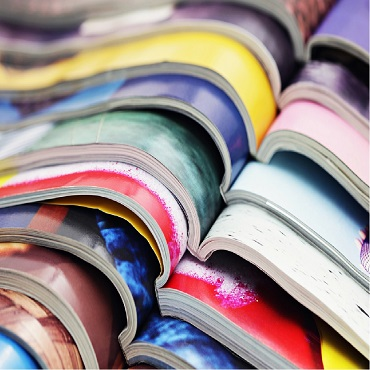
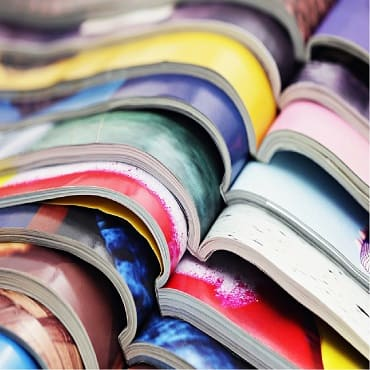
imges, seo et méta

diff --git a/LaChouetteAgence/index.html b/LaChouetteAgence/index.html
@@ -1,10 +1,11 @@
 <!doctype html>
-<html lang="Default">
+<html lang="fr">
 <head>
     <meta charset="utf-8">
-    <meta name="keywords" content="seo, google, site web, site internet, agence design paris, agence design, agence design,agence design,agence design,agence design,agence design,agence design,agence design,agence design">
-    <meta name="description" content="">
-    <meta name="viewport" content="width=device-width, initial-scale=1.0, viewport-fit=cover">
+    <meta name="keywords" content="La chouette agence, agence web design, entreprise webdesign lyon, création site web, site internet, stratégie web">
+    <meta name="description" content="La chouette agence est une agence de web design qui aide les entreprises à devenir attractives et visibles sur Internet.">
+	<meta name="viewport" content="width=device-width, initial-scale=1.0, viewport-fit=cover">
+	<meta name="robots" content="index, follow">
     <link rel="shortcut icon" type="image/png" href="favicon.jpg">
     
 	<link rel="stylesheet" type="text/css" href="./css/bootstrap.css">
@@ -19,7 +20,7 @@
 	<script src="./js/jquery.touchSwipe.js" defer></script>
 	<script src="./js/gmaps.js"></script>
 
-    <title>.</title>
+    <title>La chouette agence, entreprise de web design à Lyon</title>
 
     
 <!-- Analytics -->
@@ -37,9 +38,7 @@
 
 		<nav class="navbar row">
 			<div class="navbar-header">
-				<div class="keywords" style="color:#cccccc;font-size:1px;">Agence web à paris, stratégie web, web design, illustrations, design de site web, site web, web, internet, site internet, site</div>
-				<a class="navbar-brand" href="index.html"><img src="img/la-chouette-agence.png" alt="paris web design logo agence web meilleure agence" height="40" /></a>
-				<div class="keywords" style="color:#cccccc;font-size:1px;">Agence web à paris, stratégie web, web design, illustrations, design de site web, site web, web, internet, site internet, site</div>
+				<a class="navbar-brand" href="index.html"><img src="img/la-chouette-agence.png" alt="Logo de La chouette agence : une chouette stylisée." height="40" /></a>
 				<button id="nav-toggle" type="button" class="ui-navbar-toggle navbar-toggle" data-toggle="collapse" data-target=".navbar-1">
 					<span class="sr-only">Toggle navigation</span><span class="icon-bar"></span><span class="icon-bar"></span><span class="icon-bar"></span>
 				</button>
@@ -50,9 +49,7 @@
 						<a href="index.html">Accueil</a>
 					</li>
 					<li>
-					</li>
-					<li>
-						<a href="page2.html">page2 &gt;</a>
+						<a href="page2.html">Contactez-nous !</a>
 					</li>
 				</ul>
 			</div>
@@ -66,9 +63,10 @@
 	<div class="container bloc-lg">
 		<div class="row tight-width-whitespace">
 			<div class="col-sm-12">
-				<img src="img/logo.png" class="center-block image-resize-mode" width="100" alt="La chouette agence, agence web paris, création logo paris" />
+				<img src="img/logo.png" class="center-block image-resize-mode" width="100" alt="Logo de La chouette agence : une chouette stylisée." />
 				<h1 class="text-center hero-bloc-text tc-white ">
-					La chouette agence.
+					La chouette agence.</br>
+					Agence de webdesign - Lyon
 				</h1>
 				<div class="text-center">
 					<a href="page2.html" class="btn btn-lg btn-clean btn-rd cta-hero btn-atomic-tangerine" id="cta-hero">Contact</a>
@@ -83,9 +81,9 @@
 <div class="bloc bgc-white l-bloc" id="bloc-2-services">
 	<div class="container bloc-md">
 		<div class="row">
-			<div class="col-sm-12 text-center">
-				<img alt="agence web, agence web paris, web design paris, stratégie web" src="img/title.png" />
-			</div>
+			<h2 class="col-sm-12 text-center">
+				La chouette agence est une agence de web design qui aide les entreprises à devenir attractives et visibles sur Internet.
+			</h2>
 		</div>
 		<div class="row voffset-lg med-width-whitespace">
 			<div class="col-sm-4">
@@ -124,8 +122,8 @@
 		</div>
 		<div class="row voffset-lg voffset">
 			<div class="col-xs-12 col-md-8 col-md-offset-2 text-center">
-				<img alt="agence web, agence web paris, web design paris, stratégie web" src="img/citation.png" />
-
+				<p>"La chouette agence est un excellente agence web ! Les web designers ont réussi à capturer l'essence de notre entreprise et à l'intégrer à notre site. Cela nous a aidé à doubler nos ventes en ligne à Lyon."</p>
+				<p>Maxime Guibard, PDG de A vos fourchettes</p>
 			</div>
 		</div>
 	</div>
@@ -153,13 +151,13 @@
 <div class="bloc bgc-white bg-lines-h2-bg bg-repeat l-bloc" id="bloc-4-portfolio">
 	<div class="container bloc-lg">
 		<div class="row">
-			<div class="col-sm-12 text-center">
-				<img alt="agence web, agence web paris, web design paris, stratégie web" src="img/title2.png" />
-			</div>
+			<h2 class="col-sm-12 text-center">
+				Nous travaillons avec beaucoup de clients, voici nos réalisations.
+			</h2>
 		</div>
 		<div class="row tight-width-whitespace portfolio-row">
 			<div class="col-sm-6">
-				<a href="#" data-lightbox="img/1.jpg" data-gallery-id="gallery-1" data-caption="Refonte d'un site web pour un journal local" data-frame="snapshot-lb"><img src="img/1.jpg" alt="paris web design logo agence web meilleure agence et refonte site web journal" class="img-responsive portfolio-thumb" /></a>
+				<a href="#" data-lightbox="img/1.jpg" data-gallery-id="gallery-1" data-caption="Refonte d'un site web pour un journal local" data-frame="snapshot-lb"><img src="img/1.jpg" alt="Un empilement de magazines colorés et ouverts" class="img-responsive portfolio-thumb" /></a>
 				<h3 class="mg-md text-center">
 					Refonte d'un site web pour un journal local
 				</h3>
@@ -168,7 +166,7 @@
 				</p>
 			</div>
 			<div class="col-sm-6">
-				<a href="#" data-lightbox="img/2.jpg" data-gallery-id="gallery-1" data-caption="Création d'un site web pour photographes" data-frame="snapshot-lb"><img src="img/2.jpg" class="img-responsive portfolio-thumb" alt="paris web design logo agence web meilleure agence, Création d'un site web pour photographes" /></a>
+				<a href="#" data-lightbox="img/2.jpg" data-gallery-id="gallery-1" data-caption="Création d'un site web pour photographes" data-frame="snapshot-lb"><img src="img/2.jpg" class="img-responsive portfolio-thumb" alt="Une femme regarde vers la gauche dans un appareil photo professionnel fixé sur un trepied" /></a>
 				<h3 class="mg-md text-center">
 					Création d'un site web pour photographes
 				</h3>
@@ -179,7 +177,7 @@
 		</div>
 		<div class="row tight-width-whitespace portfolio-row">
 			<div class="col-sm-6">
-				<a href="#" data-lightbox="img/3.jpg" data-gallery-id="gallery-1" data-caption="Création d'un site internet pour un voyageur" data-frame="snapshot-lb"><img src="img/3.jpg" class="img-responsive portfolio-thumb" alt="paris web design logo agence web meilleure agence, Création d'un site web pour voyageur"/></a>
+				<a href="#" data-lightbox="img/3.jpg" data-gallery-id="gallery-1" data-caption="Création d'un site internet pour un voyageur" data-frame="snapshot-lb"><img src="img/3.jpg" class="img-responsive portfolio-thumb" alt="Des pièces détachées d'un appareil photo posées et organisées sur une surface sombre "/></a>
 				<h3 class="mg-md text-center">
 					Création d'un site internet pour un voyageur
 				</h3>
@@ -188,7 +186,7 @@
 				</p>
 			</div>
 			<div class="col-sm-6">
-				<a href="#" data-lightbox="img/4.jpg" data-gallery-id="gallery-1" data-caption="Conception d'un site pour une agence de mariage" data-frame="snapshot-lb"><img src="img/4.jpg" class="img-responsive portfolio-thumb" alt="paris web design logo agence web meilleure agence, Création d'un site web pour agence de mariage" /></a>
+				<a href="#" data-lightbox="img/4.jpg" data-gallery-id="gallery-1" data-caption="Conception d'un site pour une agence de mariage" data-frame="snapshot-lb"><img src="img/4.jpg" class="img-responsive portfolio-thumb" alt="Une réunion autour d'un thé sur l'organisation d'un mariage, rubans, paquets et étiquettes" /></a>
 				<h3 class="mg-md text-center">
 					Conception d'un site pour une agence de mariage
 				</h3>
@@ -245,44 +243,30 @@
 							<a class="social" href="index.html"><span class="fa fa-instagram icon-md"></span></a>
 						</div>
 					</div>
-					<div class="keywords" style="color:#F3976C;">Agence web à paris, stratégie web, web design, illustrations, design de site web, site web, web, internet, site internet, site</div>
 				</div>
 				<div class="row">
 					<div class="col-sm-4">
 						Partenaires
 							<ul>
-								<li><a href="voiture.com">voiture.com</a></li>
-								<li><a href="pizza.com">pizza.com</a></li>
-								<li><a href="matoiture.com">matoiture.com</a></li>
-								<li><a href="immobilierseo.com">immobilierseo.com</a></li>
+								<li><a href="photographie-lyon.com">Oui-Oui</a>, photographe lyonnais</li>
+								<li><a href="illustration-oui.com">Oui</a>, illustratrice professionnelle</li>
+								<li><a href="oui.com">Oui-Non</a>, agence de oui</li>
 							</ul>		
 					</div>
 					<div class="col-sm-4">
-						Annuaires liste 1
+						Annuaires 
 						<ul>
-							<li><a href="annuaireagence.com">annuaireagence.com</a></li>
-							<li><a href="annuaireseo.com">annuaireseo.com</a></li>
-							<li><a href="annuairemarketing.com">annuairemarketing.com</a></li>
-							<li><a href="123seoture.com">123seo.com</a></li>
-							<li><a href="123site.com">123site.com</a></li>
-							<li><a href="annuairewordpress.com">annuairewordpress.com</a></li>
-							<li><a href="listeagence.com">listeagence.com</a></li>
-							<li><a href="meilleuresagencesparis.com">meilleuresagencesparis.com</a></li>
-							<li><a href="listeseo.com">listeseo.com</a></li>
+							<li><a href="annuaireagence.com">Annuaire d'agences</a></li>
+							<li><a href="annuairemarketing.com">Annuaire de marketing</a></li>
+							<li><a href="123site.com">123site</a></li>
 						</ul>
 					</div>
 					<div class="col-sm-4">
-						Annuaires liste 2
+						Et listes
 						<ul>
-							<li><a href="betterseo.com">betterseo.com</a></li>
-							<li><a href="ameliorerseo.com">ameliorerseo.com</a></li>
-							<li><a href="seojuicelien.com">seojuicelien.com</a></li>
-							<li><a href="meilleursliens.com">meilleursliens.com</a></li>
-							<li><a href="liensagogo.com">liensagogo.com</a></li>
-							<li><a href="backlink.com">backlink.com</a></li>
-							<li><a href="linkjuiceannuaire.com">linkjuiceannuaire.com</a></li>
-							<li><a href="remontersurgoogle.com">remontersurgoogle.com</a></li>
-							<li><a href="vraiseofiable.com">vraiseofiable.com</a></li>
+							<li><a href="annuairewordpress.com">Annuaire wordpress</a></li>
+							<li><a href="listeagence.com">Liste des agences de webdesign</a></li>
+							<li><a href="meilleuresagenceslyon.com">Classement des agences lyonnaises</a></li>
 						</ul>
 					</div>
 				</div>

diff --git a/LaChouetteAgence/page2.html b/LaChouetteAgence/page2.html
@@ -1,11 +1,14 @@
 <!doctype html>
-<html lang="Default">
+<html lang="fr">
 <head>
     <meta charset="utf-8">
-    <meta name="keywords" content="">
-    <meta name="description" content="">
-    <meta name="viewport" content="width=device-width, initial-scale=1.0, viewport-fit=cover">
-    <link rel="shortcut icon" type="image/png" href="favicon.jpg">
+    <meta name="keywords" content="La chouette agence, agence web design, entreprise webdesign lyon, création site web, site internet, stratégie web, contact, formulaire">
+    <meta name="description" content="Remplissez notre formulaire de contact ou envoyez-nous un mail">
+	<meta name="viewport" content="width=device-width, initial-scale=1.0, viewport-fit=cover">
+	<meta name="robots" content="index, follow">
+
+	<link rel="shortcut icon" type="image/png" href="favicon.jpg">
+
     
 	<link rel="stylesheet" type="text/css" href="./css/bootstrap.css">
 	<link rel="stylesheet" type="text/css" href="style.css">
@@ -18,7 +21,7 @@
 	<script src="./js/blocs.js"></script>
 	<script src="./js/jqBootstrapValidation.js"></script>
 	<script src="./js/formHandler.js"></script>
-    <title>page2</title>
+    <title>La chouette agence, contact</title>
 
     
 <!-- Analytics -->
@@ -63,7 +66,7 @@
 		<div class="row">
 			<div class="col-sm-12">
 				<h1 class="text-center hero-bloc-text tc-white">
-					Parlons web design !
+					Vous souhaitez parler web design ? Contactez-nous !
 				</h1>
 				<p class="text-center mg-lg tc-white tight-width-whitespace">
 					Nous sommes ravis que vous souhaitiez collaborer avec notre agence.<br>
@@ -80,7 +83,7 @@
 	<div class="container bloc-lg">
 		<div class="row">
 			<div class="col-sm-6">
-				<form id="form_1" novalidate success-msg="Your message has been sent." fail-msg="Sorry it seems that our mail server is not responding, Sorry for the inconvenience!">
+				<form id="form_1" novalidate success-msg="Votre message a été envoyé." fail-msg="Désolé il semblerait que notre serveur ne réponde pas pour le moment, désolé pour le dérangement!">
 					<div class="form-group">
 						<label>
 							Nom
@@ -97,7 +100,7 @@
 						<label>
 							Comment nous avez-vous connu ?
 						</label>
-						<input class="form-control" type="email" required id="input_504" />
+						<input class="form-control" required id="input_504" />
 					</div>
 					<div class="form-group">
 						<label>
